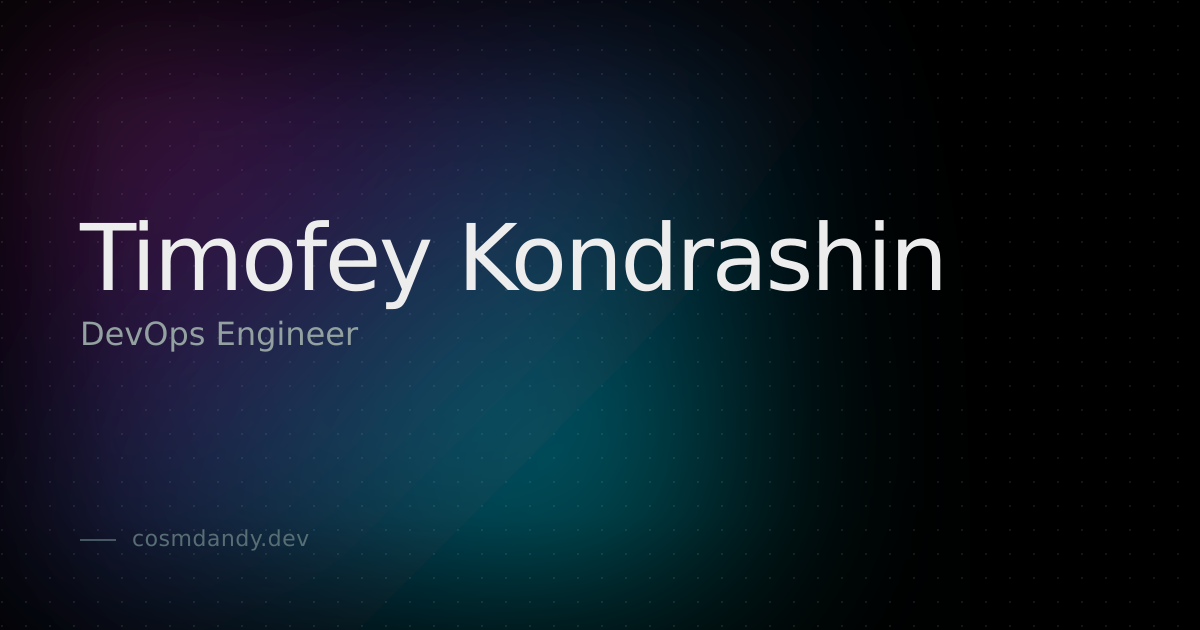
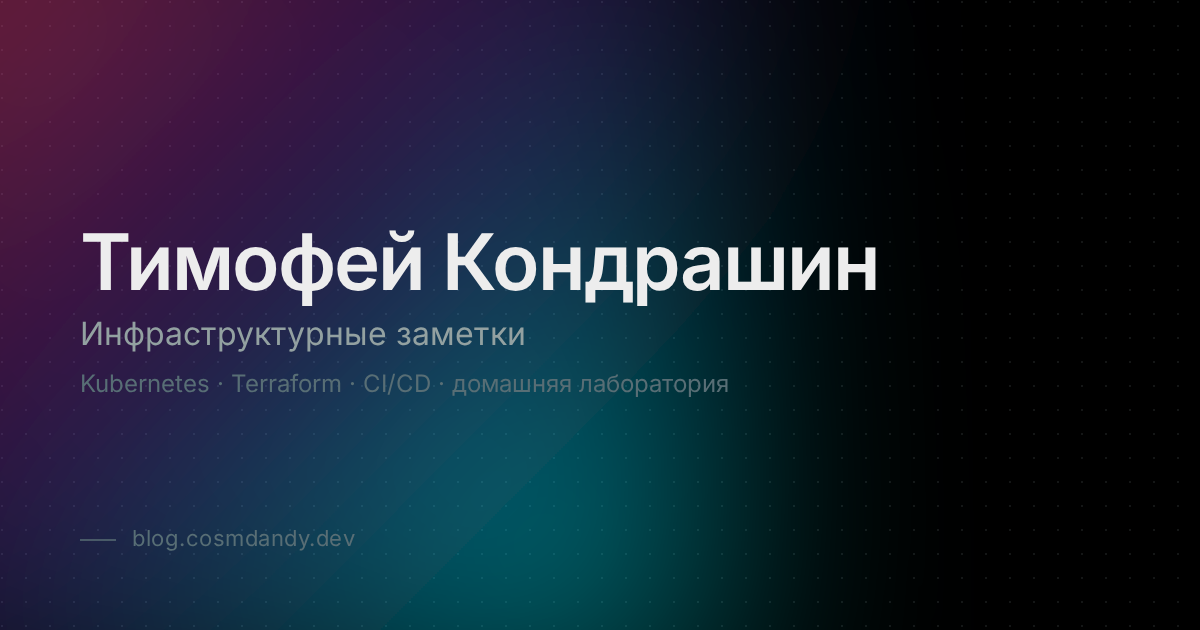
fix(seo): у блога снова есть картинка превью, и она своя
На живой странице блога не было ни og:image, ни twitter:image — только их
width, height и alt. Мессенджер в таком случае берёт что попало, обычно
favicon, и ссылка на блог выглядела иначе, чем на визитку и резюме.

Причина в условии upstream: если в сборке числится генератор картинок,
страница не печатает og:image вовсе — за него это сделает генератор. Генератор
у нас числится, но картинок не создаёт: /static/social-images/index.webp
отдаёт 404. Теперь своя картинка печатается всегда.

Сама картинка была копией визиточной, буква в букву — «Timofey Kondrashin ·
DevOps Engineer · cosmdandy.dev» на ссылке блога. Нарисована своя, в том же
ключе: тот же градиент, та же сетка точек, тот же Inter, но заголовок
«cosmdandy», под ним «Инфраструктурные заметки» и перечень тем, внизу свой
адрес.

Исходник лежит рядом с растром (og-image.svg): шрифт вшит в него base64, потому
что в сборочном контейнере системных шрифтов нет вовсе и headless chromium
нарисовал бы пустое место вместо строк.

Claude-Session: https://claude.ai/code/session_01HTZnst1Cyehfjjq8BoqbVK

fix(seo): на картинке превью имя, а не ник

Первой строкой стояло «cosmdandy» — это адрес и ник, а не имя. Ссылку смотрит
человек, и в карточке он должен видеть, чей это блог: «Тимофей Кондрашин».
Адрес остаётся внизу, где ему и место, — там он отвечает на другой вопрос.

Кегль заголовка убавлен с 92 до 78: строка длиннее прежней и на 92 упиралась бы
в правый край.
[…]

Changed region(s): [[0.0, 0.0, 0.8017, 1.0]]

diff --git a/quartz/components/Head.tsx b/quartz/components/Head.tsx
@@ -37,7 +37,9 @@ export default (() => {
         ? url.toString()
         : joinSegments(url.toString(), fileData.slug!)
 
-    const usesCustomOgImage = ctx.cfg.plugins.emitters.some((e) => e.name === "CustomOgImages")
+    // Больше не используется: картинка печатается всегда, см. комментарий ниже.
+    // Строка оставлена, чтобы правка поверх upstream была видна одной заменой.
+    void ctx.cfg.plugins.emitters.some((e) => e.name === "CustomOgImages")
     const ogImageDefaultPath = `https://${cfg.baseUrl}/static/og-image.png`
 
     const coreStylesheet = css[0]?.content
@@ -87,17 +89,24 @@ export default (() => {
         <meta property="og:description" content={description} />
         <meta property="og:image:alt" content={description} />
 
-        {!usesCustomOgImage && (
-          <>
-            <meta property="og:image" content={ogImageDefaultPath} />
-            <meta property="og:image:url" content={ogImageDefaultPath} />
-            <meta name="twitter:image" content={ogImageDefaultPath} />
-            <meta
-              property="og:image:type"
-              content={`image/${getFileExtension(ogImageDefaultPath) ?? "png"}`}
-            />
-          </>
-        )}
+        {/* Правка поверх upstream. Условие было `!usesCustomOgImage`: если в
+            сборке числится генератор картинок, страница не печатала og:image
+            вовсе — за него это сделает генератор. У нас генератор числится, но
+            картинок не создаёт: /static/social-images/index.webp отдаёт 404, а
+            в шапке живой страницы остались og:image:width, height и alt — без
+            самой картинки. Мессенджер в таком случае берёт что попало, обычно
+            favicon, и ссылка на блог выглядела иначе, чем на визитку и резюме.
+
+            Своя картинка печатается всегда. Если генератор когда-нибудь
+            заработает, он добавит свою следом — и обе будут указывать на
+            осмысленное изображение, а не одна в никуда. */}
+        <meta property="og:image" content={ogImageDefaultPath} />
+        <meta property="og:image:url" content={ogImageDefaultPath} />
+        <meta name="twitter:image" content={ogImageDefaultPath} />
+        <meta
+          property="og:image:type"
+          content={`image/${getFileExtension(ogImageDefaultPath) ?? "png"}`}
+        />
 
         {cfg.baseUrl && (
           <>
